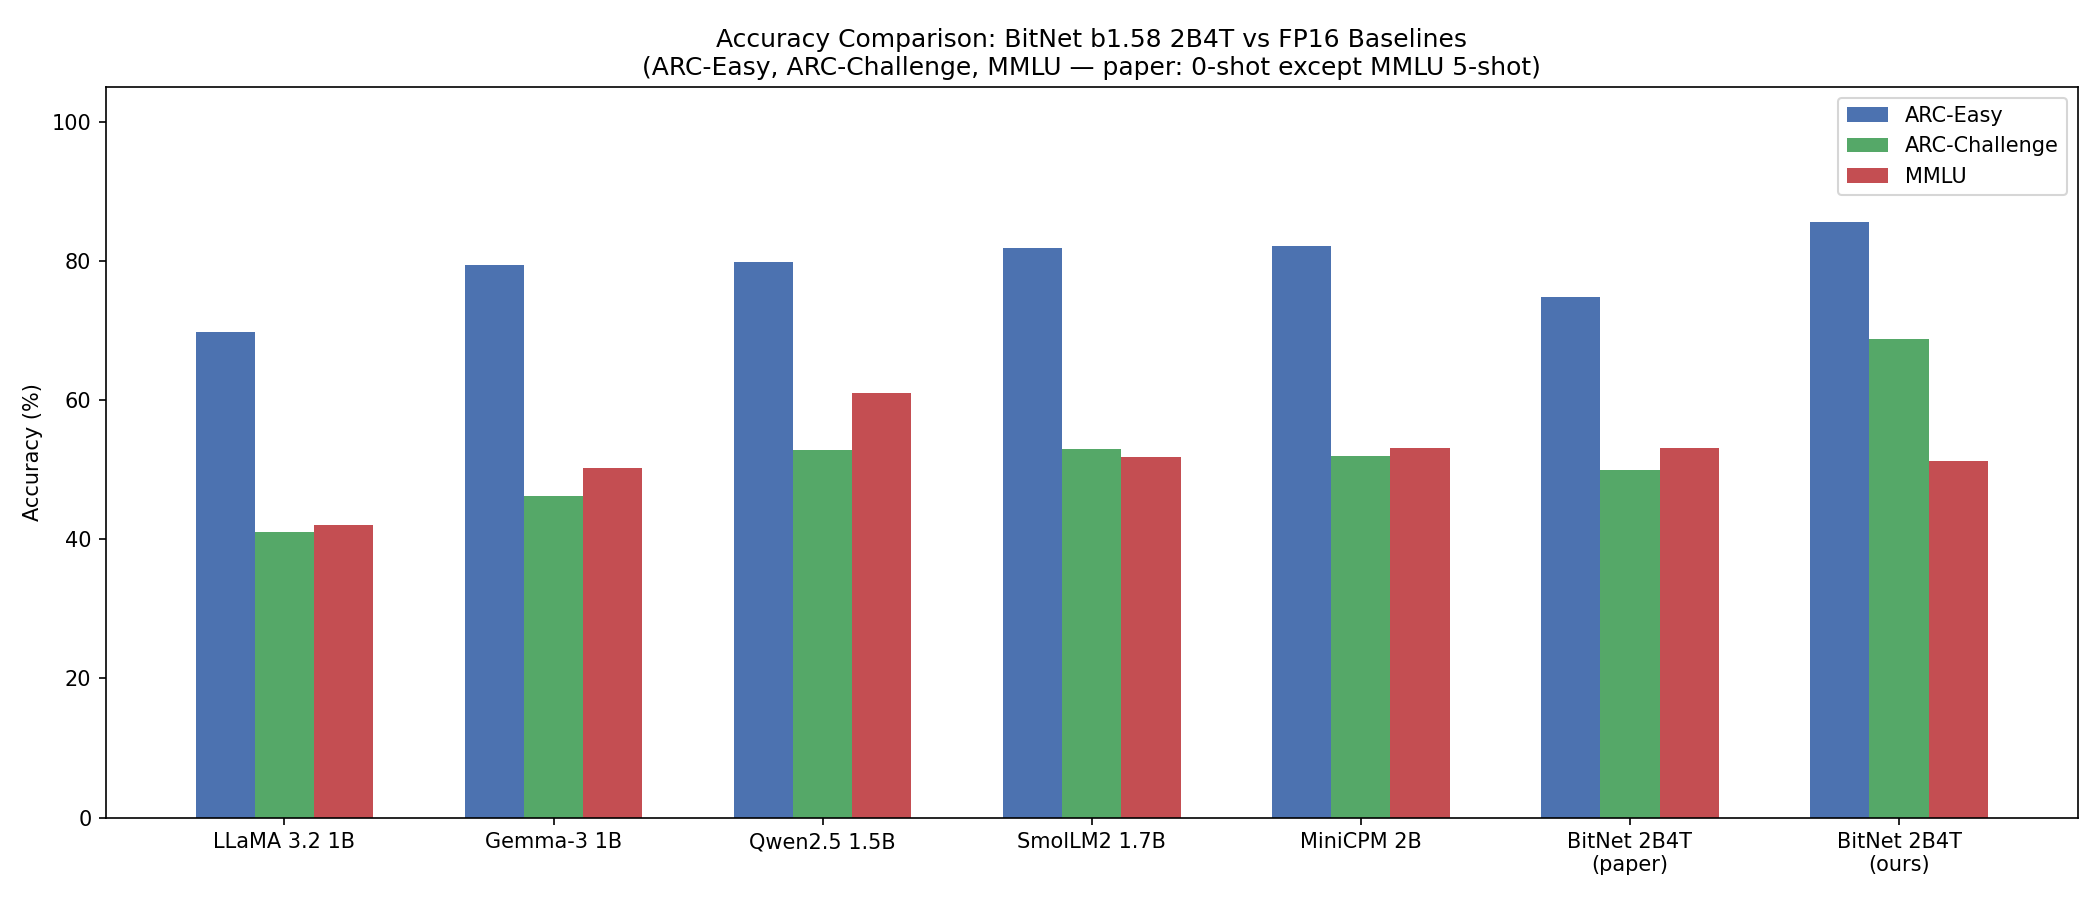
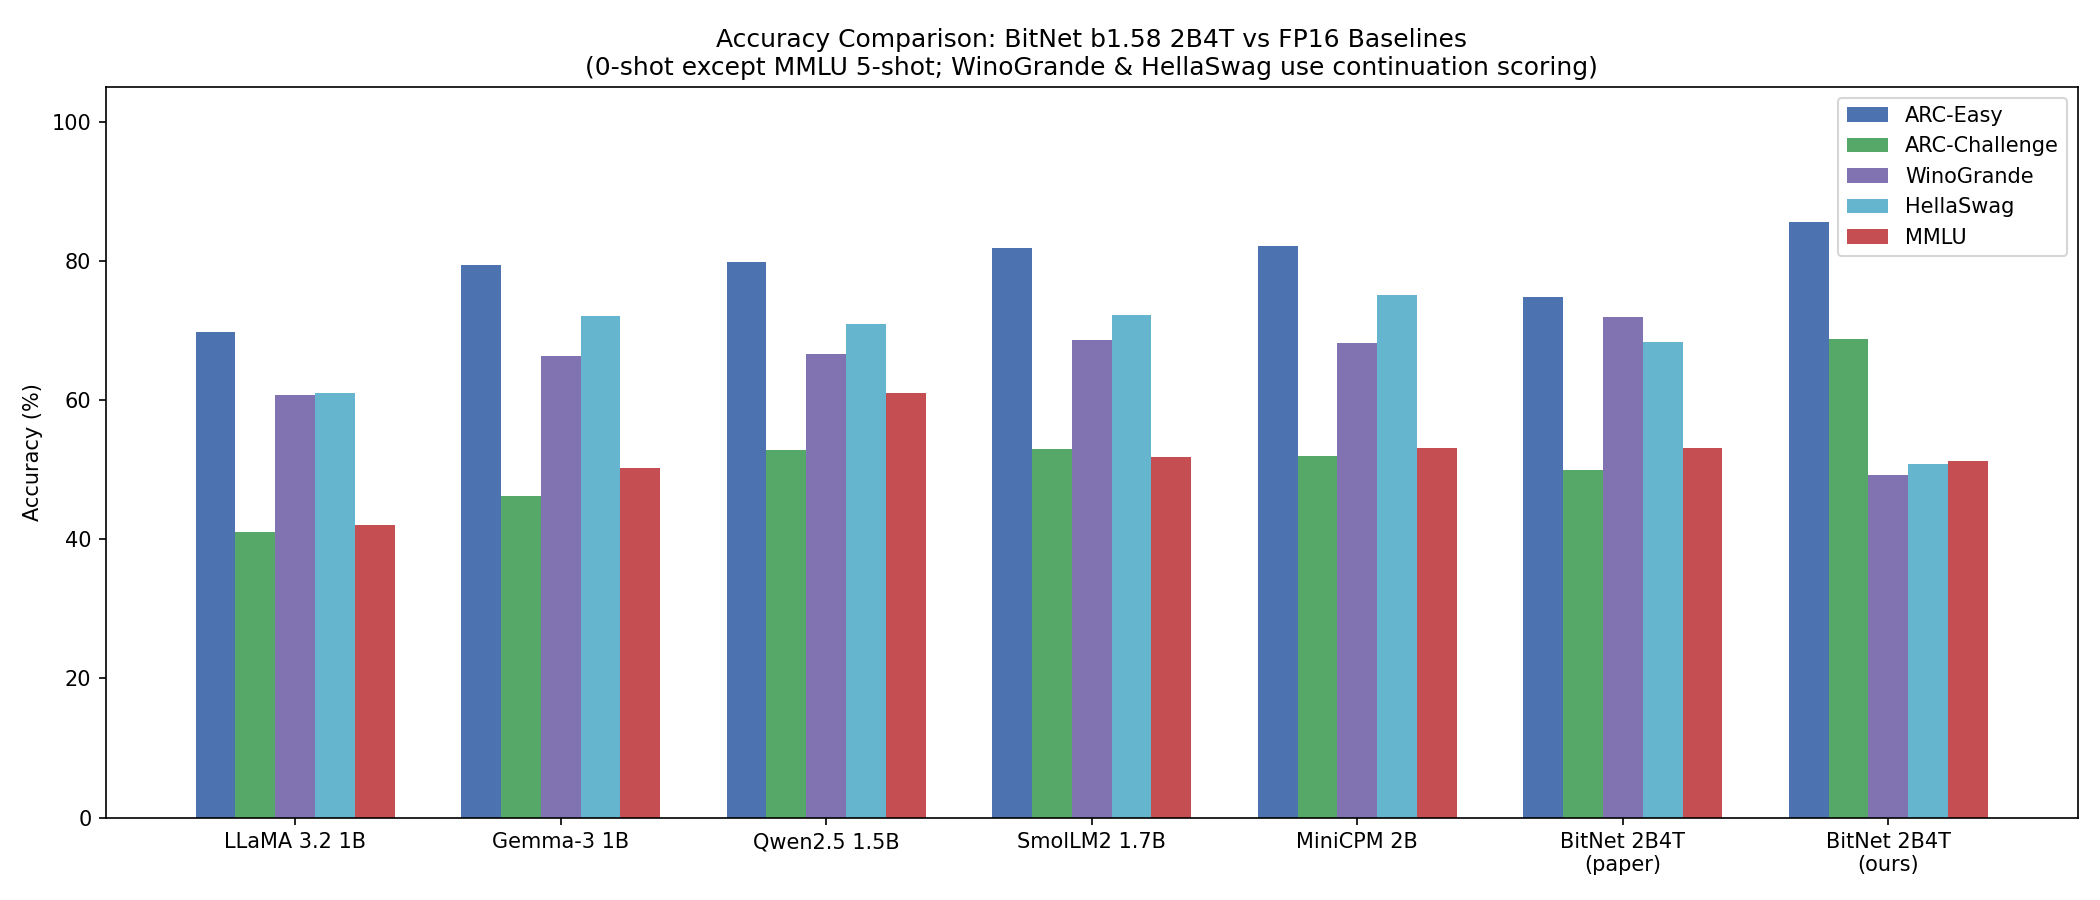
Add WinoGrande and HellaSwag to accuracy comparison plot
Now that both benchmarks use continuation scoring (matching paper
methodology), remove the omission caveat and include all 5 benchmarks.
Narrowed bar width to 0.15 to fit 5 tasks per group without overlap.

diff --git a/scripts/compare_runs.py b/scripts/compare_runs.py
@@ -327,11 +327,9 @@ def plot_throughput_by_config(local_df: pd.DataFrame, out_dir: Path):
 
 
 def plot_accuracy(local_acc: dict, out_dir: Path, qwen_acc: dict | None = None):
-    # WinoGrande/HellaSwag omitted: our letter-scoring method is methodology-
-    # incompatible with the paper's continuation scoring, giving near-random results.
-    tasks = ["arc_easy", "arc_challenge", "mmlu"]
-    task_labels = ["ARC-Easy", "ARC-Challenge", "MMLU"]
-    task_colors = ["#4C72B0", "#55A868", "#C44E52"]
+    tasks = ["arc_easy", "arc_challenge", "winogrande", "hellaswag", "mmlu"]
+    task_labels = ["ARC-Easy", "ARC-Challenge", "WinoGrande", "HellaSwag", "MMLU"]
+    task_colors = ["#4C72B0", "#55A868", "#8172B2", "#64B5CD", "#C44E52"]
 
     fp16_models = list(FP16_BASELINES.keys())
     all_models = fp16_models + ["BitNet 2B4T\n(paper)", "BitNet 2B4T\n(ours)"]
@@ -343,7 +341,7 @@ def plot_accuracy(local_acc: dict, out_dir: Path, qwen_acc: dict | None = None):
 
     x = np.arange(len(all_models))
     n_tasks = len(tasks)
-    width = 0.22
+    width = 0.15
     offsets = np.linspace(-(n_tasks - 1) * width / 2, (n_tasks - 1) * width / 2, n_tasks)
 
     fig, ax = plt.subplots(figsize=(max(14, len(all_models) * 1.6), 6))
@@ -359,7 +357,7 @@ def plot_accuracy(local_acc: dict, out_dir: Path, qwen_acc: dict | None = None):
     ax.set_ylim(0, 105)
     ax.set_title(
         "Accuracy Comparison: BitNet b1.58 2B4T vs FP16 Baselines\n"
-        "(ARC-Easy, ARC-Challenge, MMLU — paper: 0-shot except MMLU 5-shot)"
+        "(0-shot except MMLU 5-shot; WinoGrande & HellaSwag use continuation scoring)"
     )
     ax.legend()
     fig.tight_layout()
